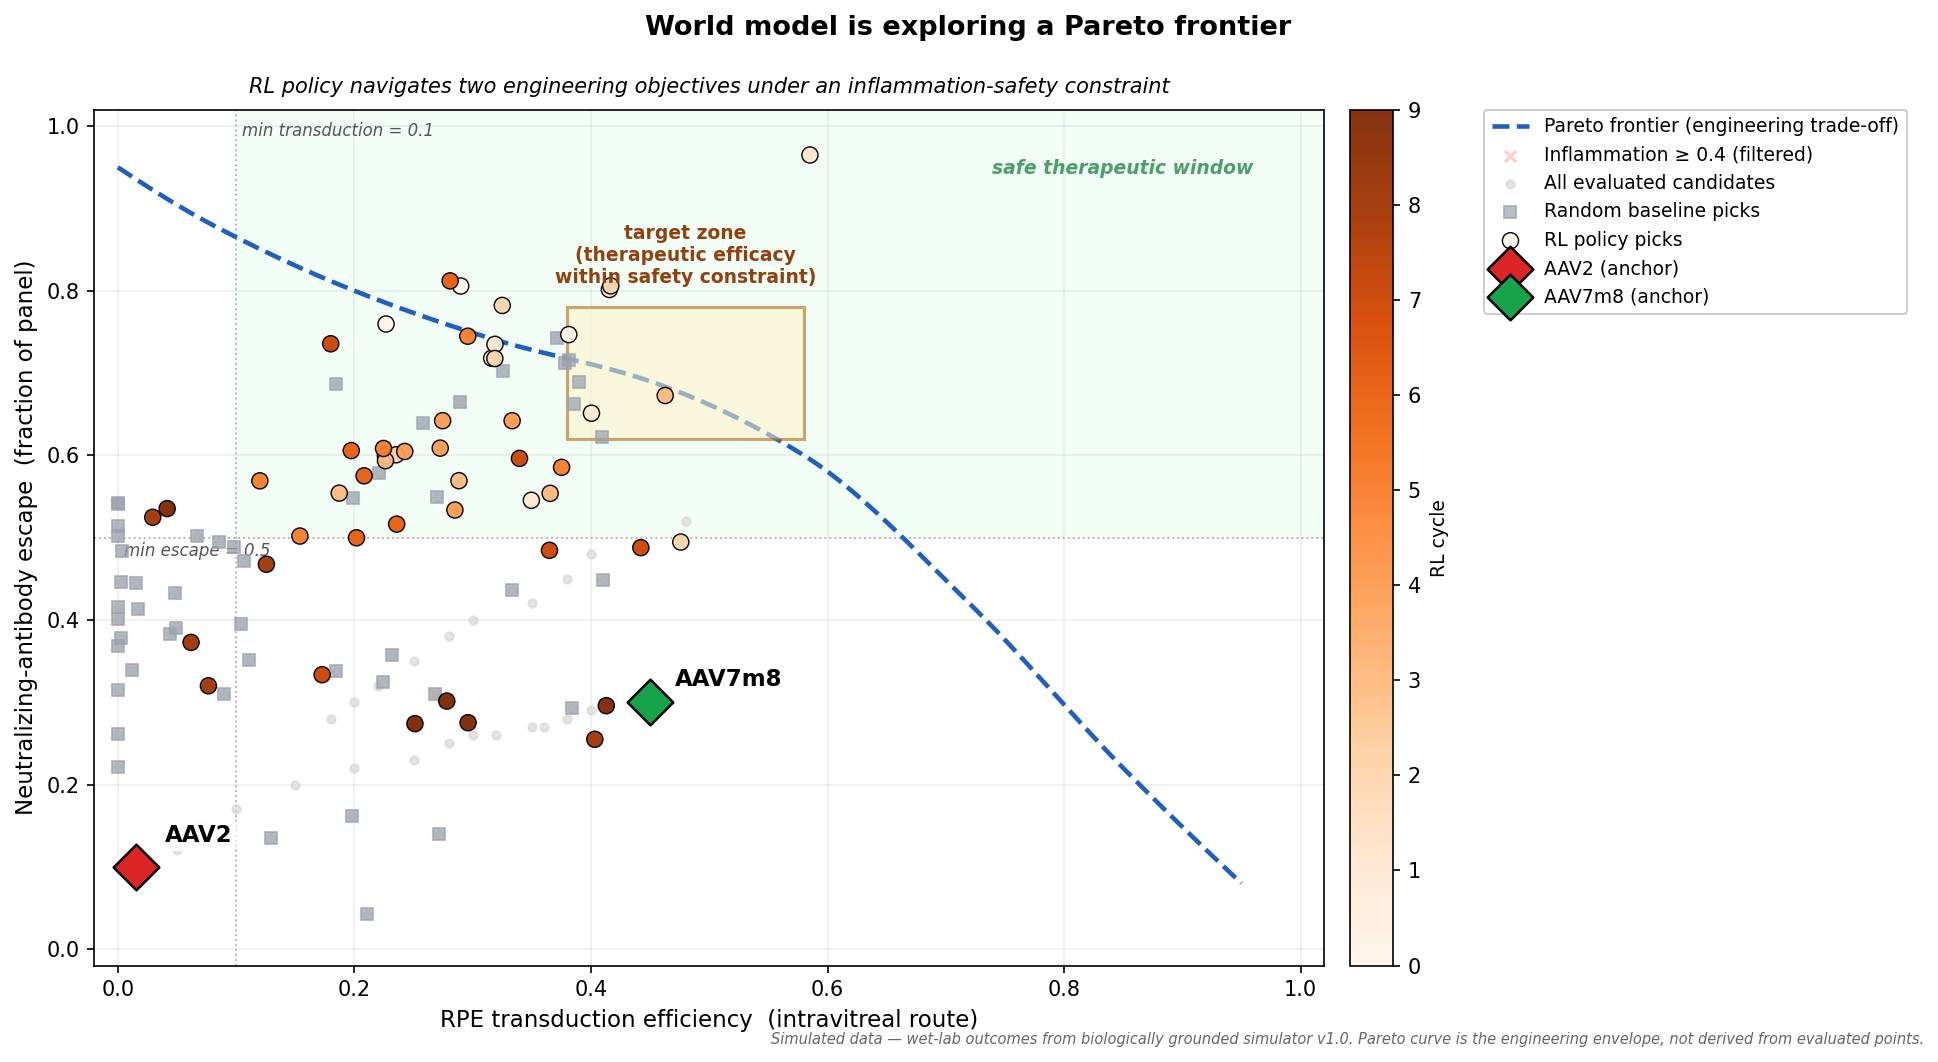
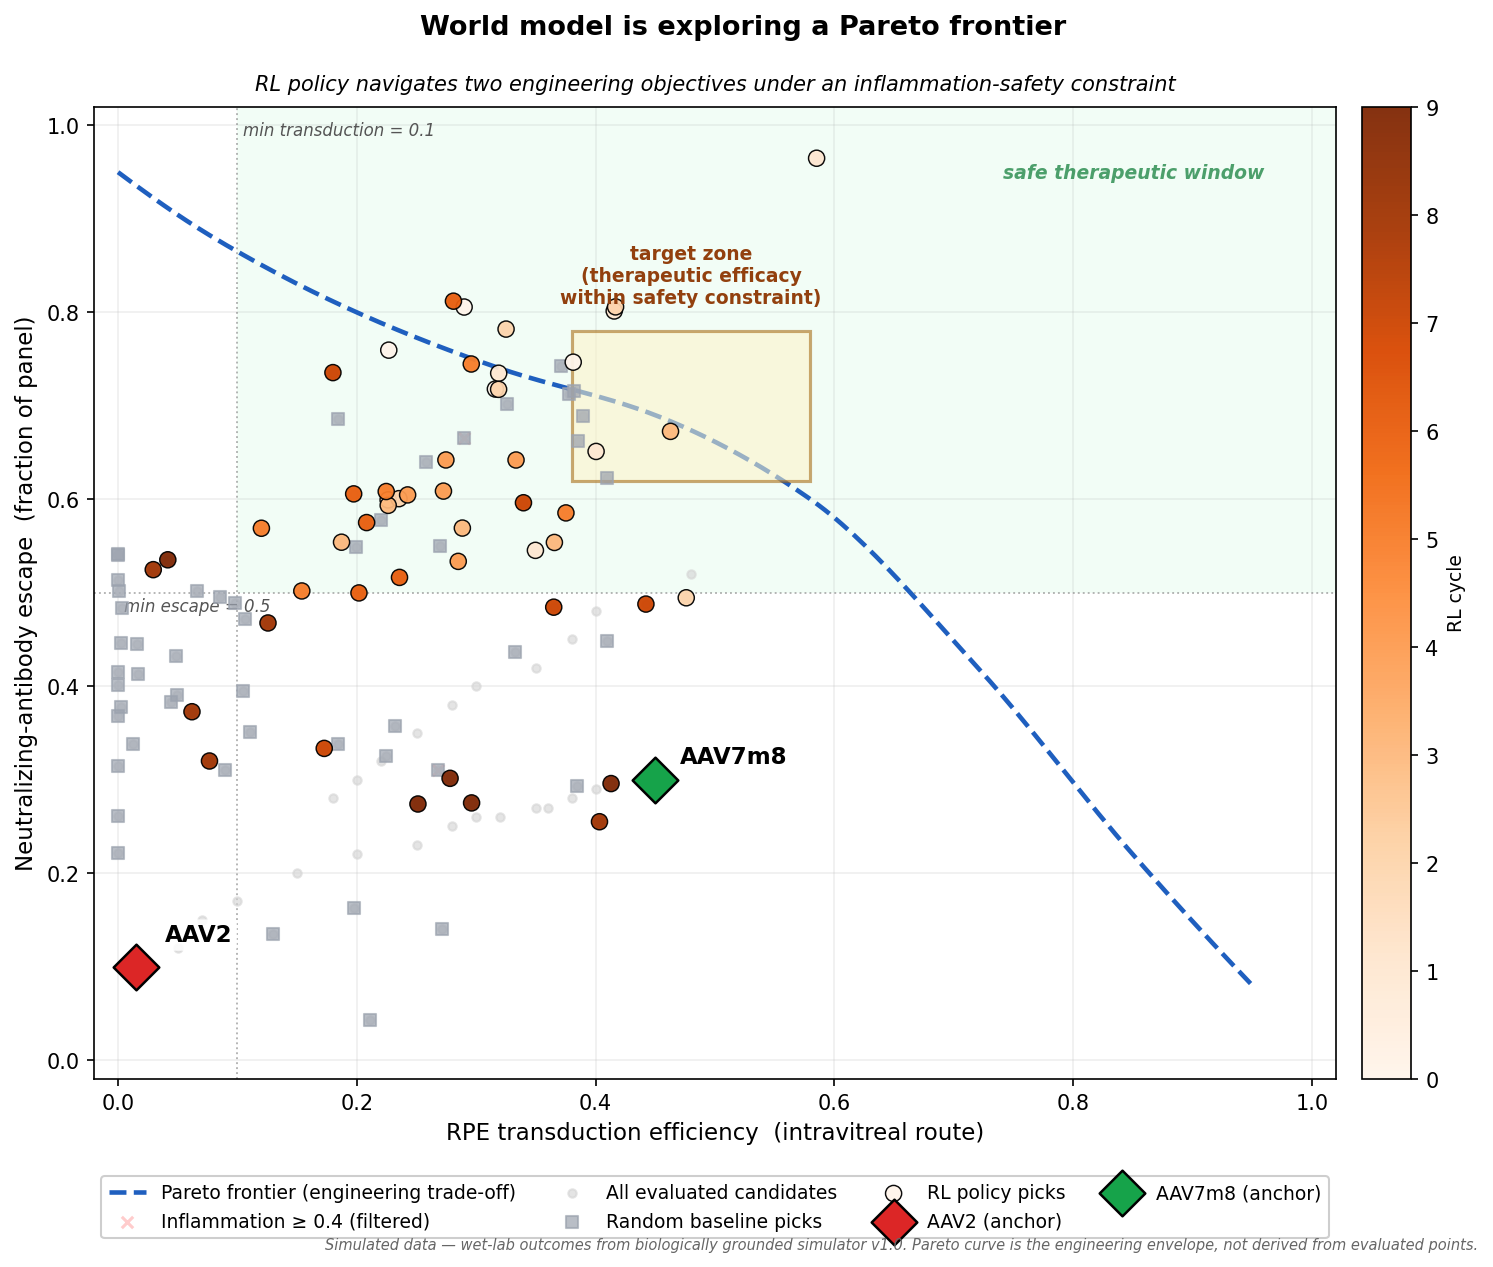
v1 pareto figure: legend below plot instead of right side

diff --git a/v1_release/visualization/pareto.py b/v1_release/visualization/pareto.py
@@ -59,7 +59,7 @@ def main(
 ) -> None:
     df = pd.read_parquet(parquet_path)
 
-    fig, ax = plt.subplots(figsize=(13, 7))
+    fig, ax = plt.subplots(figsize=(10, 8.4))
 
     # --- Safe therapeutic window (green shading) ---
     ax.add_patch(plt.Rectangle(
@@ -182,11 +182,11 @@ def main(
         "inflammation-safety constraint",
         fontsize=10, style="italic", pad=8,
     )
-    # Legend outside the plot to the right of the colorbar so it doesn't
-    # collide with the AAV2 anchor or the data in the lower-left corner.
+    # Legend below the plot so it doesn't collide with anchors or the
+    # threshold labels in any corner. Multi-column for compactness.
     ax.legend(
-        loc="upper left", bbox_to_anchor=(1.13, 1.0),
-        fontsize=9, framealpha=0.95, borderaxespad=0.0,
+        loc="upper center", bbox_to_anchor=(0.5, -0.10),
+        fontsize=9, framealpha=0.95, ncol=4, borderaxespad=0.0,
     )
     ax.grid(alpha=0.2)
 
